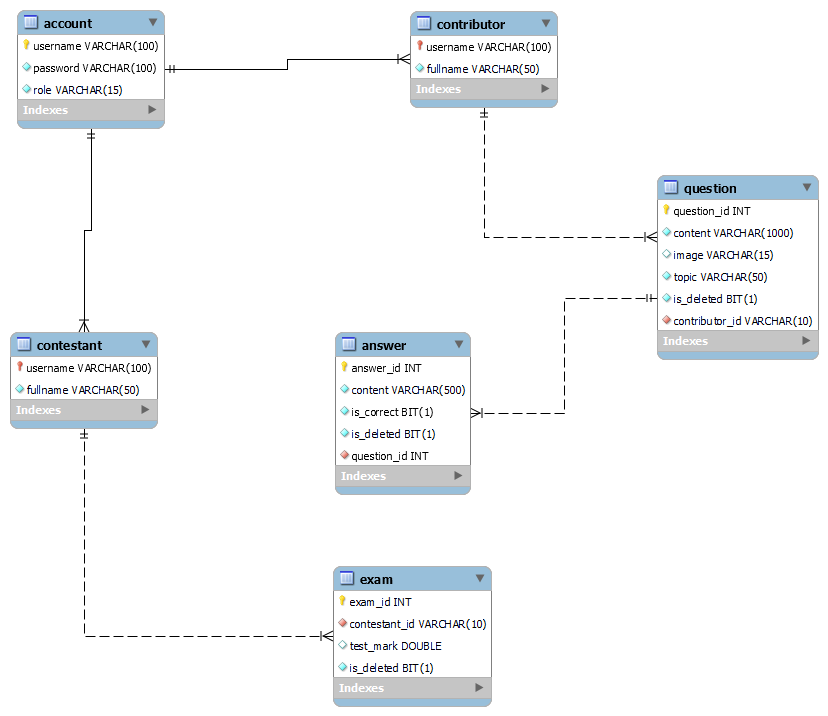
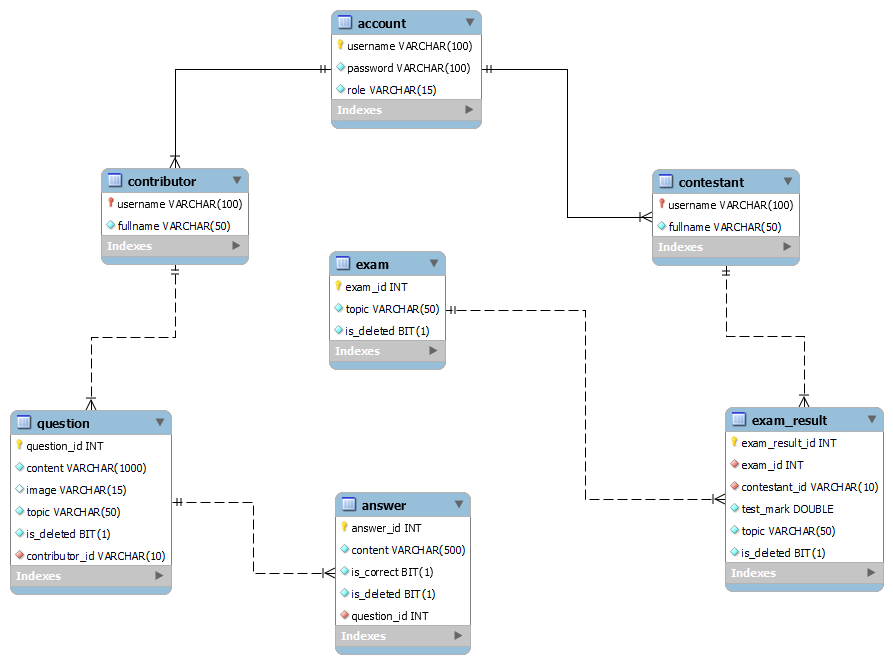
update DB and add Exam API

diff --git a/IFI_Fresher_Test/src/main/java/com/ifi/fresher_test/ifi_fresher_test/service/QuestionService.java b/IFI_Fresher_Test/src/main/java/com/ifi/fresher_test/ifi_fresher_test/service/QuestionService.java
@@ -62,11 +62,19 @@ public class QuestionService {
         }
     }
 
+    public List<QuestionDTO> findQuestionByTopic(String topic) {
+        Optional<List<Question>> optionalQuestion = questionRepository.findQuestionByTopic(topic);
+        return QuestionMapper.arrayEntityToDTO(optionalQuestion.get());
+    }
+
     public ResponseEntity<?> addQuestion(QuestionDTO questionDTO) {
         if (questionRepository.findQuestionByContentAndTopic(questionDTO.getContent(), questionDTO.getTopic()).isPresent()) {
-            return new ResponseEntity<String>(MessageResource.QUESTION_CONTENT_WITH_TOPIC + " " + questionDTO.getTopic() + " " + MessageResource.ALREADY_EXISTS, HttpStatus.ALREADY_REPORTED);
-        }
-        else {
+            return new ResponseEntity<String>(MessageResource.THIS_QUESTION_CONTENT_WITH_TOPIC + " " + questionDTO.getTopic() + " " + MessageResource.ALREADY_EXISTS, HttpStatus.ALREADY_REPORTED);
+        } else if (questionRepository.findQuestionByContentAndTopic(questionDTO.getContent(), questionDTO.getTopic()).get().getContent().toLowerCase().contains(questionDTO.getContent().toLowerCase()) ||
+                questionDTO.getContent().toLowerCase().contains(questionRepository.findQuestionByContentAndTopic(questionDTO.getContent(), questionDTO.getTopic()).get().getContent().toLowerCase())
+        ) {
+            return new ResponseEntity<String>(MessageResource.THIS_QUESTION_CONTENT_WITH_TOPIC + " " + questionDTO.getTopic() + "  " + MessageResource.MAY_BE_THE_SAME_CONTENT_AS_EXISTING_QUESTION, HttpStatus.ALREADY_REPORTED);
+        } else {
             Question question = QuestionMapper.dtoToEntity(questionDTO);
             questionRepository.save(question);
             return new ResponseEntity<QuestionDTO>(
@@ -79,6 +87,54 @@ public class QuestionService {
                             question.getContributorID()
                     ), HttpStatus.CREATED
             );
+        }
+    }
+
+    public ResponseEntity<?> updateQuestion(Integer id, QuestionDTO questionDTO) {
+        Optional<Question> optionalQuestion = questionRepository.findById(id);
+        if (!optionalQuestion.isPresent()) {
+            return new ResponseEntity<String>(MessageResource.QUESTION + " " + id + " " + MessageResource.NOT_CREATED_YET, HttpStatus.ALREADY_REPORTED);
+        } else if (questionRepository.findQuestionByContentAndTopic(questionDTO.getContent(), questionDTO.getTopic()).isPresent()) {
+            return new ResponseEntity<String>(MessageResource.THIS_QUESTION_CONTENT_WITH_TOPIC + " " + questionDTO.getTopic() + " " + MessageResource.ALREADY_EXISTS, HttpStatus.ALREADY_REPORTED);
+        } else if (questionRepository.findById(id).get().getContent().toLowerCase().contains(questionDTO.getContent().toLowerCase()) ||
+                questionDTO.getContent().toLowerCase().contains(questionRepository.findById(id).get().getContent().toLowerCase())
+        ) {
+            return new ResponseEntity<String>(MessageResource.THIS_QUESTION_CONTENT_WITH_TOPIC + " " + questionDTO.getTopic() + "  " + MessageResource.MAY_BE_THE_SAME_CONTENT_AS_EXISTING_QUESTION, HttpStatus.ALREADY_REPORTED);
+        } else {
+            return optionalQuestion.map(question -> {
+                question.setContent(questionDTO.getContent());
+                question.setImage(questionDTO.getImage());
+                question.setTopic(questionDTO.getTopic());
+                questionRepository.save(question);
+                return new ResponseEntity<QuestionDTO>(new QuestionDTO(
+                        question.getQuestionID(),
+                        question.getContent(),
+                        question.getImage(),
+                        question.getTopic(),
+                        question.getIsDeleted(),
+                        question.getContributorID()
+                ), HttpStatus.OK);
+            }).orElseGet(() -> new ResponseEntity<>(HttpStatus.NOT_FOUND));
+        }
+    }
+
+    public ResponseEntity<?> deleteQuestion(Integer id) {
+        Optional<Question> optionalQuestion = questionRepository.findById(id);
+        if (optionalQuestion.isPresent()) {
+            return optionalQuestion.map(question -> {
+                question.setIsDeleted(true);
+                questionRepository.save(question);
+                return new ResponseEntity<QuestionDTO>(new QuestionDTO(
+                        question.getQuestionID(),
+                        question.getContent(),
+                        question.getImage(),
+                        question.getTopic(),
+                        question.getIsDeleted(),
+                        question.getContributorID()
+                ), HttpStatus.OK);
+            }).orElseGet(() -> new ResponseEntity<>(HttpStatus.NOT_FOUND));
+        } else {
+            return new ResponseEntity<String>(MessageResource.QUESTION + " " + id + " " + MessageResource.NOT_CREATED_YET, HttpStatus.NOT_FOUND);
         }
     }
 }

diff --git a/IFI_Fresher_Test/src/main/java/com/ifi/fresher_test/ifi_fresher_test/service/ExamService.java b/IFI_Fresher_Test/src/main/java/com/ifi/fresher_test/ifi_fresher_test/service/ExamService.java
@@ -1,8 +1,19 @@
 package com.ifi.fresher_test.ifi_fresher_test.service;
 
+import com.ifi.fresher_test.ifi_fresher_test.dto.ExamDTO;
+import com.ifi.fresher_test.ifi_fresher_test.dto.QuestionDTO;
+import com.ifi.fresher_test.ifi_fresher_test.mapper.ExamMapper;
+import com.ifi.fresher_test.ifi_fresher_test.model.Exam;
 import com.ifi.fresher_test.ifi_fresher_test.repository.ExamRepository;
+import com.ifi.fresher_test.ifi_fresher_test.util.MessageResource;
 import org.springframework.beans.factory.annotation.Autowired;
+import org.springframework.http.HttpStatus;
+import org.springframework.http.ResponseEntity;
 import org.springframework.stereotype.Service;
+
+import java.util.ArrayList;
+import java.util.List;
+import java.util.Random;
 
 @Service
 public class ExamService {
@@ -11,5 +22,36 @@ public class ExamService {
     @Autowired
     public void setExamRepository(ExamRepository examRepository) {
         this.examRepository = examRepository;
+    }
+
+    QuestionService questionService;
+
+    @Autowired
+    public void setQuestionService(QuestionService questionService) {
+        this.questionService = questionService;
+    }
+
+    public List<QuestionDTO> randomQuestionToExam(List<QuestionDTO> questionList, Integer questionNumber) {
+        List<QuestionDTO> examQuestion = new ArrayList();
+        Random random = new Random();
+        for (int i = 0; i < questionNumber; i++) {
+            int randomIndex = random.nextInt(questionList.size());
+            QuestionDTO questionDTO = questionList.get(randomIndex);
+            examQuestion.add(questionDTO);
+        }
+        return examQuestion;
+    }
+
+    public ResponseEntity<?> addExam(ExamDTO examDTO) {
+        Exam exam = ExamMapper.dtoToEntity(examDTO);
+//        examRepository.save(exam);
+        return new ResponseEntity<ExamDTO>(
+                new ExamDTO(
+                        exam.getExamID(),
+                        exam.getTopic(),
+                        exam.getIsDeleted(),
+                        randomQuestionToExam(questionService.findQuestionByTopic(examDTO.getTopic()), MessageResource.ONE_TOPIC_EXAM_QUESTION_NUMBER)
+                ), HttpStatus.CREATED
+        );
     }
 }

diff --git a/IFI_Fresher_Test/src/main/java/com/ifi/fresher_test/ifi_fresher_test/mapper/QuestionMapper.java b/IFI_Fresher_Test/src/main/java/com/ifi/fresher_test/ifi_fresher_test/mapper/QuestionMapper.java
@@ -20,20 +20,21 @@ public class QuestionMapper {
         return questionDTO;
     }
 
-//    public static List<QuestionDTO> arrayEntityToDTO(List<Question> questions) {
-//        List<QuestionDTO> questionDTOS = new ArrayList<>();
-//        for (int i = 0; i < questions.size(); i++) {
-//            questionDTOS.add(new QuestionDTO(
-//                    questions.get(i).getContent(),
-//                    questions.get(i).getImage(),
-//                    questions.get(i).getTopic(),
-//                    questions.get(i).getIsDeleted(),
-//                    questions.get(i).getContributorID()
-//                    )
-//            );
-//        }
-//        return questionDTOS;
-//    }
+    public static List<QuestionDTO> arrayEntityToDTO(List<Question> questions) {
+        List<QuestionDTO> questionDTOS = new ArrayList<>();
+        for (int i = 0; i < questions.size(); i++) {
+            questionDTOS.add(new QuestionDTO(
+                    questions.get(i).getQuestionID(),
+                    questions.get(i).getContent(),
+                    questions.get(i).getImage(),
+                    questions.get(i).getTopic(),
+                    questions.get(i).getIsDeleted(),
+                    questions.get(i).getContributorID()
+                    )
+            );
+        }
+        return questionDTOS;
+    }
 
     public static Question dtoToEntity(QuestionDTO questionDTO) {
         Question question = new Question();

diff --git a/IFI_Fresher_Test/src/main/java/com/ifi/fresher_test/ifi_fresher_test/util/MessageResource.java b/IFI_Fresher_Test/src/main/java/com/ifi/fresher_test/ifi_fresher_test/util/MessageResource.java
@@ -5,6 +5,12 @@ import lombok.NoArgsConstructor;
 @NoArgsConstructor
 public class MessageResource {
     /**
+     * For Const
+     */
+    public static final Integer ONE_TOPIC_EXAM_QUESTION_NUMBER = 3;
+    public static final Integer ALL_TOPIC_EXAM_QUESTION_NUMBER = 18;
+
+    /**
      * For Entity
      */
     public static final String ACCOUNT = "ACCOUNT";
@@ -24,7 +30,18 @@ public class MessageResource {
     /**
      * For Question
      */
-    public static final String QUESTION_CONTENT_WITH_TOPIC = "QUESTION CONTENT WITH TOPIC";
+    public static final String THIS_QUESTION_CONTENT_WITH_TOPIC = "THIS QUESTION CONTENT WITH TOPIC";
+    public static final String MAY_BE_THE_SAME_CONTENT_AS_EXISTING_QUESTION = "MAY BE THE SAME CONTENT AS EXISTING QUESTION";
+
+    /**
+     * For Exam
+     */
+    public static final String HTML = "HTML";
+    public static final String JAVA_SCRIPT = "JavaScript";
+    public static final String ANGULAR = "Angular";
+    public static final String JAVA_BASIC = "Java Basic";
+    public static final String JAVA_OOP = "Java OOP";
+    public static final String JAVA_SPRING = "Java Spring";
 
     /**
      * For Notice

diff --git a/IFI_Fresher_Test/src/main/java/com/ifi/fresher_test/ifi_fresher_test/service/AnswerService.java b/IFI_Fresher_Test/src/main/java/com/ifi/fresher_test/ifi_fresher_test/service/AnswerService.java
@@ -107,7 +107,6 @@ public class AnswerService {
                 return optionalAnswer.map(answer -> {
                     answer.setContent(answerDTO.getContent());
                     answer.setIsCorrect(answerDTO.getIsCorrect());
-                    answer.setIsDeleted(answerDTO.getIsDeleted());
                     answer.setQuestionID(answerDTO.getQuestionID());
                     answerRepository.save(answer);
                     return new ResponseEntity<AnswerDTO>(new AnswerDTO(
@@ -128,8 +127,10 @@ public class AnswerService {
         Optional<Answer> optionalAnswer = answerRepository.findById(id);
         if (optionalAnswer.isPresent()) {
             return optionalAnswer.map(answer -> {
-                answerRepository.delete(answer);
+                answer.setIsDeleted(true);
+                answerRepository.save(answer);
                 return new ResponseEntity<AnswerDTO>(new AnswerDTO(
+//                            answer.getAnswerID(),
                         answer.getContent(),
                         answer.getIsCorrect(),
                         answer.getIsDeleted(),

diff --git a/IFI_Fresher_Test/src/main/java/com/ifi/fresher_test/ifi_fresher_test/controller/api/ExamController.java b/IFI_Fresher_Test/src/main/java/com/ifi/fresher_test/ifi_fresher_test/controller/api/ExamController.java
@@ -1,7 +1,12 @@
 package com.ifi.fresher_test.ifi_fresher_test.controller.api;
 
+import com.ifi.fresher_test.ifi_fresher_test.dto.ExamDTO;
+import com.ifi.fresher_test.ifi_fresher_test.dto.QuestionDTO;
 import com.ifi.fresher_test.ifi_fresher_test.service.ExamService;
 import org.springframework.beans.factory.annotation.Autowired;
+import org.springframework.http.ResponseEntity;
+import org.springframework.web.bind.annotation.PostMapping;
+import org.springframework.web.bind.annotation.RequestBody;
 import org.springframework.web.bind.annotation.RequestMapping;
 import org.springframework.web.bind.annotation.RestController;
 
@@ -13,5 +18,10 @@ public class ExamController {
     @Autowired
     public void setExamService(ExamService examService) {
         this.examService = examService;
+    }
+
+    @PostMapping("/add")
+    public ResponseEntity<?> addExam(@RequestBody ExamDTO examDTO) {
+        return examService.addExam(examDTO);
     }
 }

diff --git a/IFI_Fresher_Test/src/main/java/com/ifi/fresher_test/ifi_fresher_test/mapper/ExamMapper.java b/IFI_Fresher_Test/src/main/java/com/ifi/fresher_test/ifi_fresher_test/mapper/ExamMapper.java
@@ -1,4 +1,26 @@
 package com.ifi.fresher_test.ifi_fresher_test.mapper;
 
+import com.ifi.fresher_test.ifi_fresher_test.dto.ExamDTO;
+import com.ifi.fresher_test.ifi_fresher_test.dto.QuestionDTO;
+import com.ifi.fresher_test.ifi_fresher_test.model.Exam;
+import com.ifi.fresher_test.ifi_fresher_test.model.Question;
+
+import java.util.List;
+
 public class ExamMapper {
+    public static ExamDTO entityToDTO(Exam exam, List<QuestionDTO> questionList) {
+        ExamDTO examDTO = new ExamDTO();
+        examDTO.setExamID(exam.getExamID());
+        examDTO.setTopic(exam.getTopic());
+        examDTO.setIsDeleted(exam.getIsDeleted());
+        examDTO.setQuestionList(questionList);
+        return examDTO;
+    }
+
+    public static Exam dtoToEntity(ExamDTO examDTO) {
+        Exam exam = new Exam();
+        exam.setTopic(examDTO.getTopic());
+        exam.setIsDeleted(examDTO.getIsDeleted());
+        return exam;
+    }
 }

diff --git a/IFI_Fresher_Test/src/main/java/com/ifi/fresher_test/ifi_fresher_test/model/ExamResult.java b/IFI_Fresher_Test/src/main/java/com/ifi/fresher_test/ifi_fresher_test/model/ExamResult.java
@@ -13,18 +13,23 @@ import javax.persistence.*;
 @Setter
 @NoArgsConstructor
 @AllArgsConstructor
-public class Exam {
+public class ExamResult {
     @Id
     @GeneratedValue(strategy = GenerationType.IDENTITY)
+    @Column(name = "exam_result_id")
+    private String examResultID;
+
     @Column(name = "exam_id")
     private String examID;
+
+    @Column(name = "contestant_id")
+    private String contestantID;
+
+    @Column(name = "test_mark")
+    private String testMark;
 
     private String topic;
 
     @Column(name = "is_deleted")
     private Boolean isDeleted;
-
-//    @ManyToOne
-//    @JoinColumn
-//    private Contestant contestant;
 }

diff --git a/IFI_Fresher_Test/src/main/java/com/ifi/fresher_test/ifi_fresher_test/controller/api/ExamResultController.java b/IFI_Fresher_Test/src/main/java/com/ifi/fresher_test/ifi_fresher_test/controller/api/ExamResultController.java
@@ -1,0 +1,17 @@
+package com.ifi.fresher_test.ifi_fresher_test.controller.api;
+
+import com.ifi.fresher_test.ifi_fresher_test.service.ExamResultService;
+import org.springframework.beans.factory.annotation.Autowired;
+import org.springframework.web.bind.annotation.RequestMapping;
+import org.springframework.web.bind.annotation.RestController;
+
+@RestController
+@RequestMapping("/examResult")
+public class ExamResultController {
+    ExamResultService examResultService;
+
+    @Autowired
+    public void setExamResultService(ExamResultService examResultService) {
+        this.examResultService = examResultService;
+    }
+}

diff --git a/IFI_Fresher_Test/src/main/java/com/ifi/fresher_test/ifi_fresher_test/controller/api/QuestionController.java b/IFI_Fresher_Test/src/main/java/com/ifi/fresher_test/ifi_fresher_test/controller/api/QuestionController.java
@@ -32,4 +32,14 @@ public class QuestionController {
     public ResponseEntity<?> addQuestion(@RequestBody QuestionDTO questionDTO) {
         return questionService.addQuestion(questionDTO);
     }
+
+    @PutMapping("/update/{id}")
+    public ResponseEntity<?> updateAnswer(@PathVariable Integer id, @RequestBody QuestionDTO questionDTO) {
+        return questionService.updateQuestion(id, questionDTO);
+    }
+
+    @DeleteMapping("/delete/{id}")
+    public ResponseEntity<?> deleteQuestion(@PathVariable Integer id) {
+        return questionService.deleteQuestion(id);
+    }
 }

diff --git a/IFI_Fresher_Test/src/main/java/com/ifi/fresher_test/ifi_fresher_test/service/ExamResultService.java b/IFI_Fresher_Test/src/main/java/com/ifi/fresher_test/ifi_fresher_test/service/ExamResultService.java
@@ -1,0 +1,15 @@
+package com.ifi.fresher_test.ifi_fresher_test.service;
+
+import com.ifi.fresher_test.ifi_fresher_test.repository.ExamResultRepository;
+import org.springframework.beans.factory.annotation.Autowired;
+import org.springframework.stereotype.Service;
+
+@Service
+public class ExamResultService {
+    ExamResultRepository examResultRepository;
+
+    @Autowired
+    public void setExamResultRepository(ExamResultRepository examResultRepository) {
+        this.examResultRepository = examResultRepository;
+    }
+}

diff --git a/IFI_Fresher_Test/src/main/java/com/ifi/fresher_test/ifi_fresher_test/repository/QuestionRepository.java b/IFI_Fresher_Test/src/main/java/com/ifi/fresher_test/ifi_fresher_test/repository/QuestionRepository.java
@@ -4,9 +4,12 @@ import com.ifi.fresher_test.ifi_fresher_test.model.Question;
 import org.springframework.data.jpa.repository.JpaRepository;
 import org.springframework.stereotype.Repository;
 
+import java.util.List;
 import java.util.Optional;
 
 @Repository
 public interface QuestionRepository extends JpaRepository<Question, Integer> {
+    public Optional<List<Question>> findQuestionByTopic(String topic);
+
     public Optional<Question> findQuestionByContentAndTopic(String content, String topic);
 }
